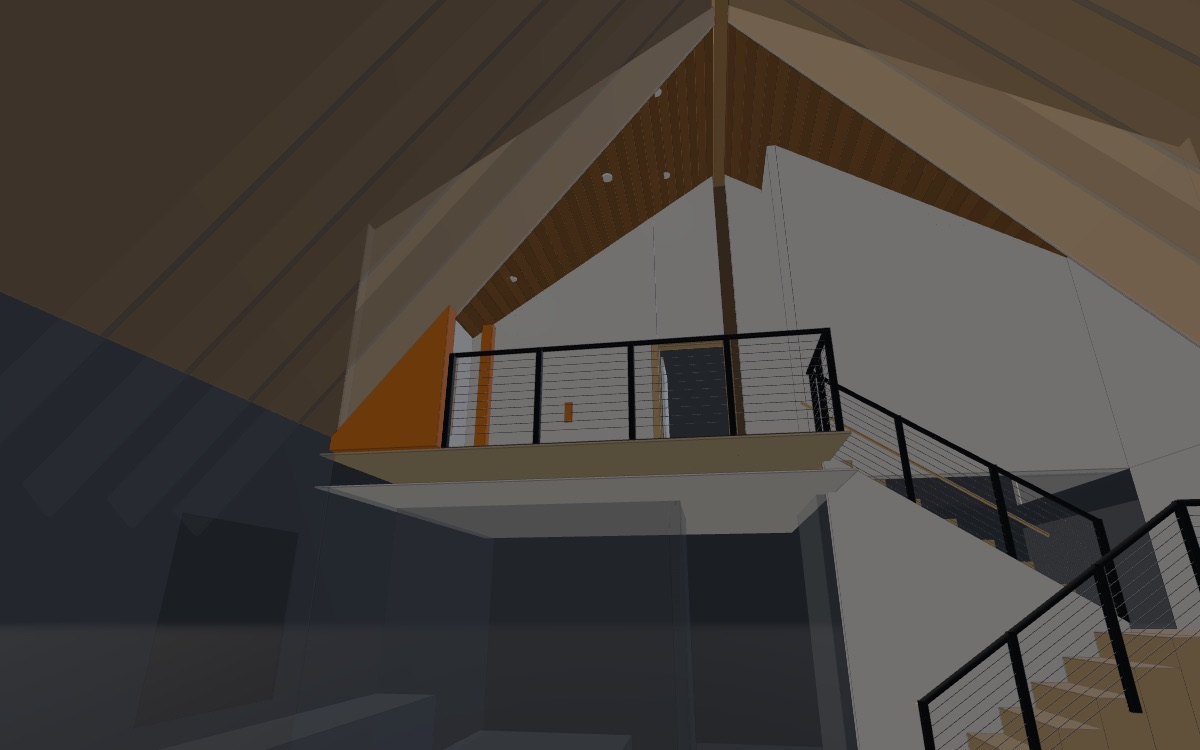
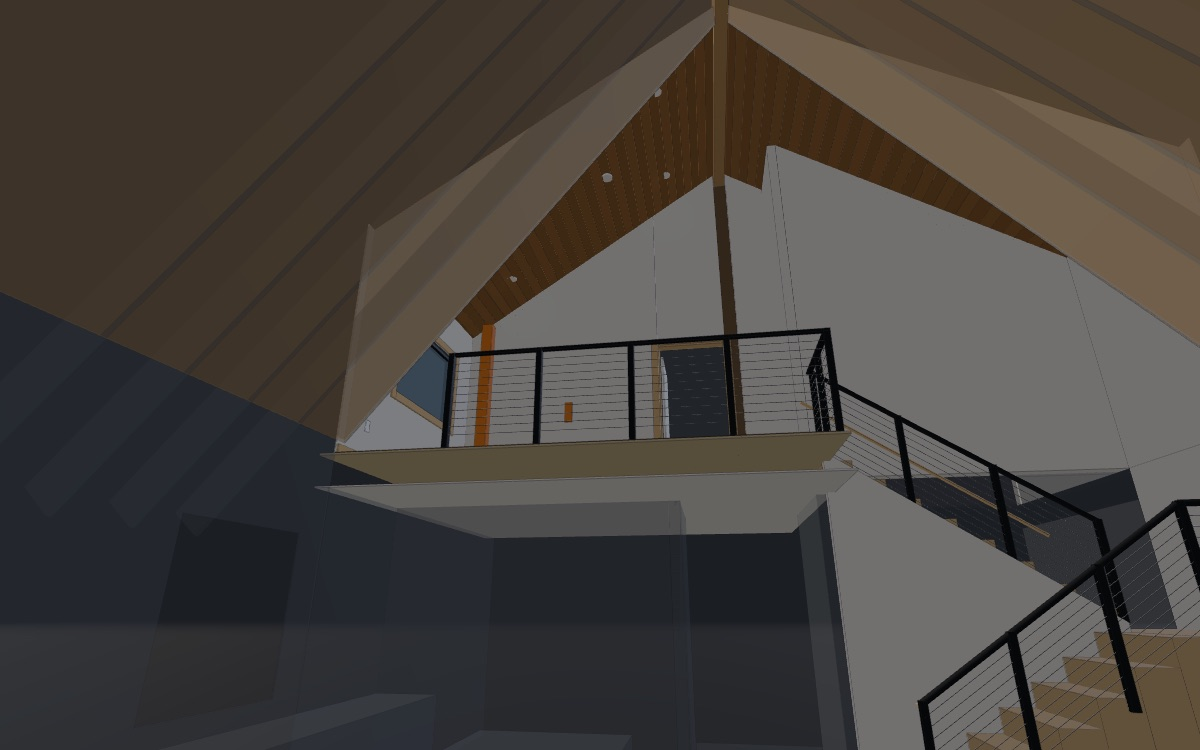
fix: loft drawing to the as-built window E, open north-east corner and engineered rafters (owner field facts 2026-09-18)

Changed region(s): [[0.2775, 0.3987, 0.4008, 0.6133]]

diff --git a/loft.html b/loft.html
@@ -65,7 +65,7 @@
   </div>
   <div class="panel" id="legend">
     <h2>Legend</h2>
-    <div class="lg"><span class="sw" style="background:#d9b48a"></span>DF framing (joists, studs, rafters, 4X12 beam)</div>
+    <div class="lg"><span class="sw" style="background:#d9b48a"></span>Framing (joists, studs, 4X12 beam; eng. 2x12 rafters as built)</div>
     <div class="lg"><span class="sw" style="background:#6e5640"></span>PSL / LVL engineered lumber</div>
     <div class="lg"><span class="sw" style="background:#b8905e"></span>Ridge glulam 5 1/2" x 24"</div>
     <div class="lg"><span class="sw" style="background:#9a6a3c"></span>1x6 T&amp;G ceiling</div>
@@ -1577,14 +1577,14 @@ const D = {
   EAST_GYP: 150, EAST_STUD1: 150.5, EAST_STUD2: 156, SHEATH: 156.5, SIDING: 157.25,
   DORMER_S: -176.5,                  // dormer south end (bath/bedroom partition line)
   PLATE_TOP: 94, PLATE_BOT: 91,
-  WIN_X1: -93.5, WIN_X2: -33.0, WIN_Y1: 36, WIN_Y2: 72.5, HDR_H: 7.25,   // window E RO + 4X8 header
+  WIN_X1: -95.0, WIN_X2: -34.25, WIN_Y1: 36, WIN_Y2: 74, HDR_H: 7.25,   // window E RO as built (owner tape 2026-09-18): 60 3/4" x 38", sill 36", 37" from the floor edge; sheets had 60 1/2 x 36 1/2 at -93.5..-33
   PONY_Z1: 109.5, PONY_X1: 0, PONY_X2: 6.5,
   // ceiling / roof
   CEIL_Y0: 93.1, RAFT_Y0: 94, SLOPE_D: 2 / 3,        // dormer: y = Y0 + SLOPE_D * (156 - |z|)
   GR_Y0: 188.5, GR_SLOPE: 1.225,                      // great room T&G: y = 188.5 - 1.225 |z|
   GLB_Y1: 186, GLB_Y2: 210, GLB_HW: 2.75,
   GLB_X1: -176.5, GLB_X2: 236,
-  RAFT_D: 13.25, RAFT_W: 1.5, EAVE: 180,
+  RAFT_D: 11.875, RAFT_W: 1.5, EAVE: 180,             // as built (owner photo 2026-09-18): engineered 2x12s, tripled at the dormer end, in place of S3.3's 2X14 DF#2; 11 7/8" assumed
   DORMER_RAFTERS: [-10.7, -34.7, -58.7, -82.7, -106.7, -130.7, -154.7],
   DRAG_RAFTER: -82.7,
   TRIPLE_S1: -178.75, TRIPLE_S2: -174.25,
@@ -1955,8 +1955,8 @@ for (const [cx, cz] of D.CANS) { const pl = new THREE.PointLight(0xfff1dc, 0.55,
   // west (gridline C) dormer wall at the stair well + bath (with window F), and the stair's west wall below
   prism(rect(D.DORMER_S, 0, D.EDGE_X, yc(-150)), -D.EAST_STUD1, -D.EAST_GYP, M.gyp, 'walls', [rect(-164.75, 61.5, -128.25, 73.5)]);
   prism(rect(D.WELL_X1, D.LOWER, D.EDGE_X, 0), -D.EAST_STUD1, -D.EAST_GYP, M.gyp, 'walls');
-  // pony wall closing the low pocket where the rail stops (interpretation of A02's hatched stub) -- orange
-  prismZY([[D.PONY_Z1, 0], [D.EAST_GYP, 0], [D.EAST_GYP, yg(D.EAST_GYP)], [D.PONY_Z1, yg(D.PONY_Z1)]], D.PONY_X1, D.PONY_X2, M.flag, 'walls');
+  // north-east corner: nothing framed there as of 2026-09-18 (owner photo) -- A02's hatched stub is not built; the corner
+  // is left open as the owner chose and carries one orange CORNER GUARD TBD tag (D.PONY_Z1 marks where the rail ends).
   // dormer gable-end face above the great-room roof (gyp on the lounge side of the gridline-3 gable wall)
   prismZY([[D.GLB_HW, yg(D.GLB_HW)], [D.EAST_GYP, yg(D.EAST_GYP)], [D.EAST_GYP, yc(D.EAST_GYP)], [D.GLB_HW, yc(D.GLB_HW)]], D.GABLE_GYP, D.GABLE_X1, M.gypDbl, 'walls');
   prismZY([[-D.EAST_GYP, yg(-D.EAST_GYP)], [-D.GLB_HW, yg(-D.GLB_HW)], [-D.GLB_HW, yc(-D.GLB_HW)], [-D.EAST_GYP, yc(-D.EAST_GYP)]], D.GABLE_GYP, D.GABLE_X1, M.gypDbl, 'walls');
@@ -2097,12 +2097,11 @@ for (const [cx, cz] of D.CANS) { const pl = new THREE.PointLight(0xfff1dc, 0.55,
   tagAt(['LOUNGE', '10\'-0" x 14\'-8" clear floor', '1x6 T&G ceiling, 8\'-1" to 16\'-3"'], W2, 106, 95, 'x', TB);
   tagAt(['LOFT FLOOR', '2X12 DF#2 @ 16", 3/4" T&G subfloor', 'LVP (TBD)'], RIM, -6.4, 40, 'x', T);
   tagAt(['CABLE RAIL 0560, 36"', '2" sq. black posts, 3/16" SS cable @ 3"'], RIM, 43, 5, 'x', T);
-  tagAt(['RAIL END: WALL STUB (TBD)', 'VERIFY guard w/ architect'], D.PONY_X2 + 0.15, 10, 127, 'x', { ...FLAGT, fs: 36 });
+  tagAt(['CORNER GUARD TBD', 'rail ends z 110; roof 54" -> 5" over the floor edge to the wall'], RIM, 10, 127, 'x', { ...FLAGT, fs: 36 });
   tagAt(['RIDGE GLB 5 1/2" x 24" 24F-V4 DF', 'bottom 15\'-6" above loft floor'], D.COL_X2 + 0.15, 170, 0, 'x', TB);   // on the column face, under the beam (its side is edge-on from the great room)
   tagAt(['RIDGE COLUMN', '7" x 7" 1.8E PSL', 'cap CCQ6-7.13SDS2.5'], D.COL_X2 + 0.15, 140, 0, 'x', TB);
   tagAt(['DOOR 15  36" x 84" LH in-swing', 'RO 3\'-0 1/2" x 7\'-0 1/2"', 'Ageless Iron Loch'], W2, 120, 20, 'x', TB);
-  tagAt(['WINDOW E 5\'-0" x 3\'-0" FIXED', 'RO 5\'-0 1/2" x 3\'-0 1/2", sill 36"'], -63, 82, EW, 'z-', T);
-  tagAt(['SILL 36" AS DRAWN: FIELD VERIFY'], -63, 26, EW, 'z-', { ...FLAGT, fs: 44 });
+  tagAt(['WINDOW E 5\'-0" x 3\'-0" FIXED', 'RO 5\'-0 3/4" x 3\'-2" as built, sill 36"', '37" to the floor edge'], -64.6, 84, EW, 'z-', T);
   tagAt(['STAIR 3\'-0" MIN CLEAR, SWITCHBACK', '16 R @ 7 1/2", 11" treads', 'handrail 1040 @ 34", 0560 rail on divider'], D.DIV_X2 + 0.15, -62, -62, 'x', T);
   tagAt(['FIELD VERIFY STAIR DIVIDER', 'top 3" over the flight-2 nosings, rail on top'], D.DIV_X2 + 0.15, -40, -70, 'x', { ...FLAGT, fs: 44 });
   // electrical + HVAC
@@ -2118,7 +2117,7 @@ for (const [cx, cz] of D.CANS) { const pl = new THREE.PointLight(0xfff1dc, 0.55,
   tagAt(['DRAG JOIST 2X12 DF#2, A35 @ 6" (8/S4.3)'], D.DRAG_X, JT, 100, 'y', TFR);
   tagAt(['6X12 DF#2 DRAG BEAM, (2) HDU5 EA. END'], -79.75, JT, -100, 'y', TFR);
   tagAt(['7" x 11 1/4" 2.0E LVL on 6X8 DF#2 POSTS'], -120.5, JT, 2, 'y', TFR);
-  tagAt(['2X14 DF#2 RAFTERS @ 24" O.C., 8:12'], W2, 132, 50, 'x', TFR);
+  tagAt(['ENG. 2x12 RAFTERS @ 24" O.C., 8:12 (as built)', 'triple @ dormer end -- S3.3: 2X14 DF#2'], W2, 132, 50, 'x', TFR);
 }
 // ---- dimensions -------------------------------------------------------------------------------------------------------------------
 {
@@ -2128,9 +2127,10 @@ for (const [cx, cz] of D.CANS) { const pl = new THREE.PointLight(0xfff1dc, 0.55,
   dim(V(-60, 2, D.WELL_Z), V(-60, 2, D.GA), '15\'-2" joist span', V(0, -16, 0), V(0, 1, 0));
   dim(V(-100, 0, D.EAST_GYP), V(-100, yc(D.EAST_GYP), D.EAST_GYP), '8\'-1"', V(0, 0, -4), V(1, 0, 0));
   dim(V(-100, 0, 0), V(-100, D.GLB_Y1, 0), '15\'-6"', V(0, 0, 0), V(1, 0, 0));
-  dim(V(D.WIN_X1, 30, D.EAST_GYP), V(D.WIN_X2, 30, D.EAST_GYP), 'RO 5\'-0 1/2"', V(0, 0, -3), V(0, 1, 0));
-  dim(V(D.WIN_X1 - 6, D.WIN_Y1, D.EAST_GYP), V(D.WIN_X1 - 6, D.WIN_Y2, D.EAST_GYP), 'RO 3\'-0 1/2"', V(0, 0, -3), V(1, 0, 0));
-  dim(V(D.WIN_X2 + 6, 0, D.EAST_GYP), V(D.WIN_X2 + 6, D.WIN_Y1, D.EAST_GYP), 'sill 36" -- FIELD VERIFY', V(0, 0, -3), V(1, 0, 0));
+  dim(V(D.WIN_X1, 30, D.EAST_GYP), V(D.WIN_X2, 30, D.EAST_GYP), 'RO 5\'-0 3/4"', V(0, 0, -3), V(0, 1, 0));
+  dim(V(D.WIN_X1 - 6, D.WIN_Y1, D.EAST_GYP), V(D.WIN_X1 - 6, D.WIN_Y2, D.EAST_GYP), 'RO 3\'-2"', V(0, 0, -3), V(1, 0, 0));
+  dim(V(D.WIN_X2 + 6, 0, D.EAST_GYP), V(D.WIN_X2 + 6, D.WIN_Y1, D.EAST_GYP), 'sill 36"', V(0, 0, -3), V(1, 0, 0));
+  dim(V(D.WIN_X2, 30, D.EAST_GYP), V(D.EDGE_X, 30, D.EAST_GYP), '37"', V(0, 0, -3), V(0, 1, 0));
   dim(V(D.W2_E, D.DOOR_HEAD + 8, D.DOOR_Z1), V(D.W2_E, D.DOOR_HEAD + 8, D.DOOR_Z2), 'RO 3\'-0 1/2"', V(4, 0, 0), V(0, 1, 0));
   dim(V(D.BEAM_X1, -16, D.BEAM_Z1), V(D.EDGE_X, -16, D.BEAM_Z1), '3\'-9"', V(0, 0, -6), V(0, 1, 0));
   dim(V(D.EDGE_X, 0, 0), V(D.EDGE_X, yg(0), 0), '15\'-8 1/2"', V(0, 0, -10), V(1, 0, 0));
